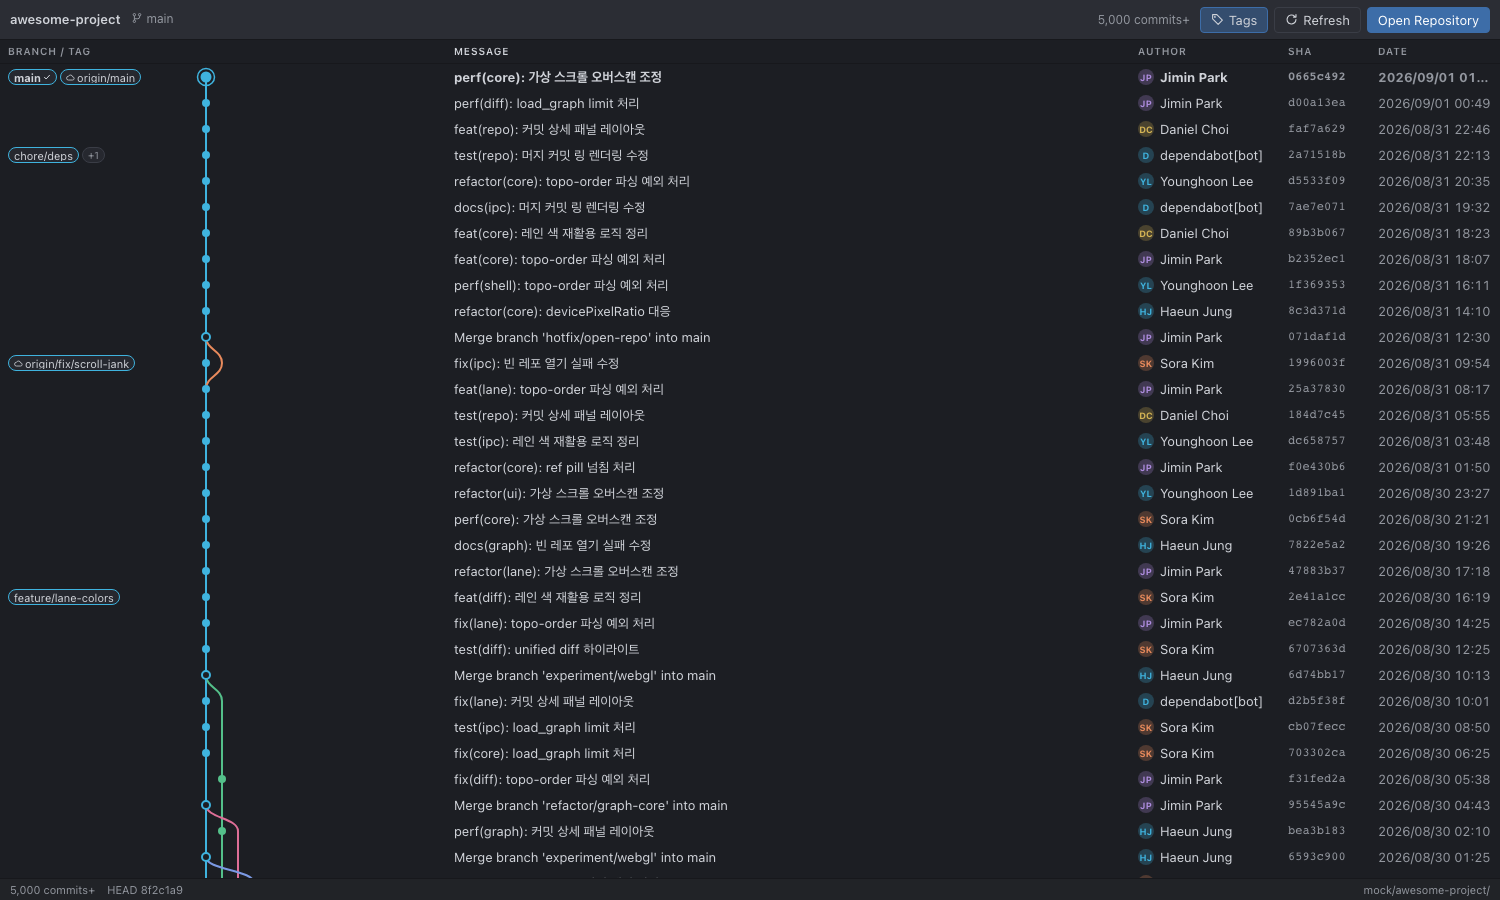
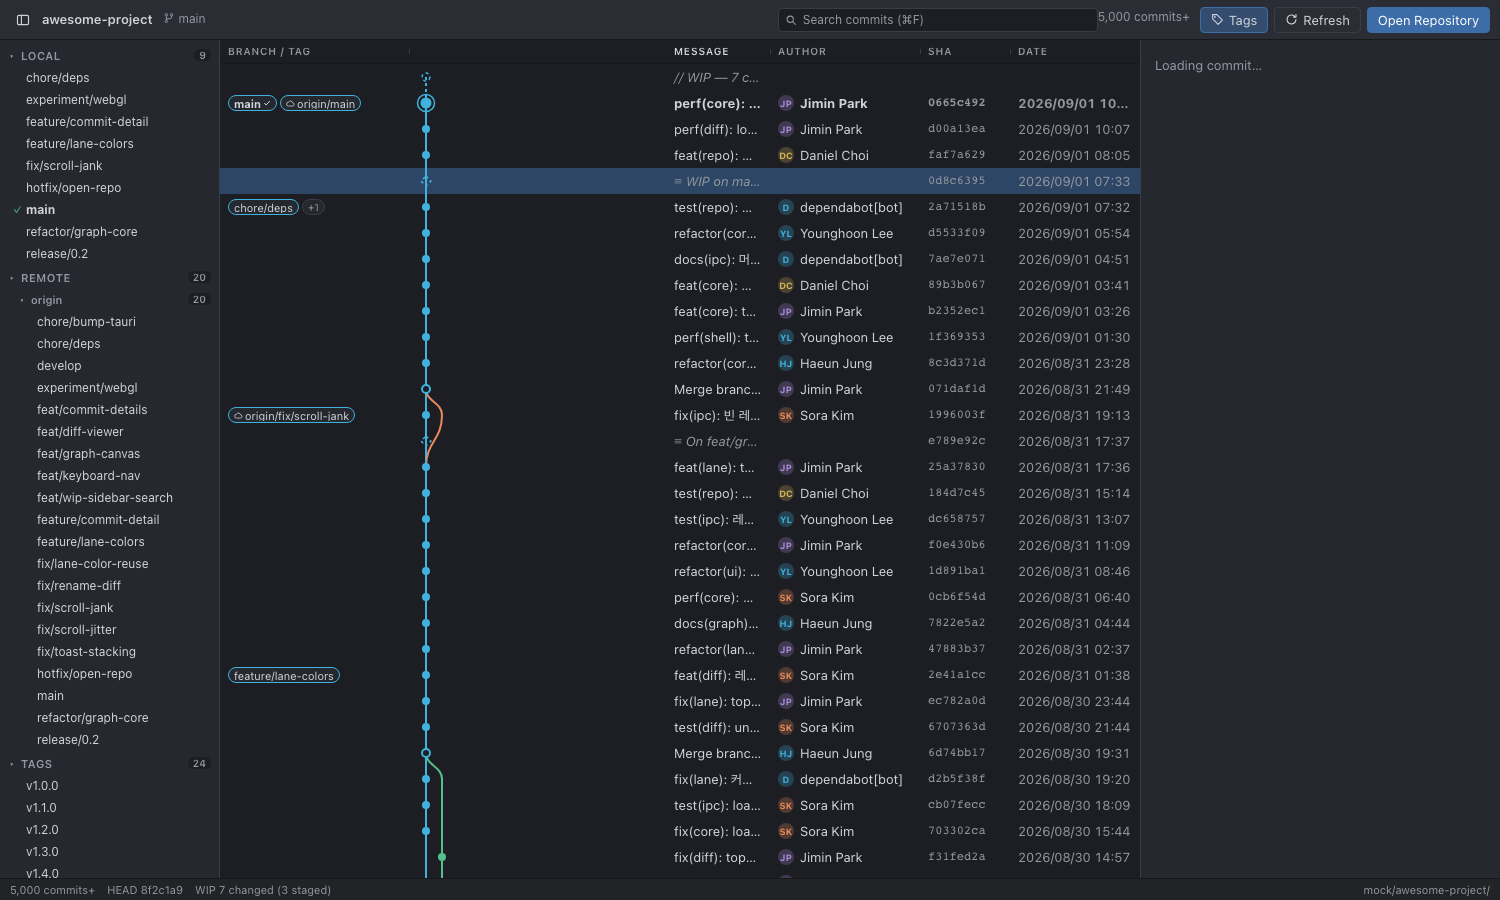
chore: release CI (macOS arm64/x86_64, Windows, Linux), README refresh, v0.3.0
- GitHub Actions workflow builds and uploads all-platform bundles on v* tags
  via tauri-action, running tsc + cargo test first
- README: feature list matching v0.5, install/usage/dev-harness docs
- fresh screenshot with sidebar, WIP row, avatars

diff --git a/README.md b/README.md
@@ -1,29 +1,56 @@
 # GitLanes
 
-GitKraken-style commit graph viewer. Free and open source, read-only, works with any local repository (private or public — there is no such distinction for local repos).
+GitKraken-style commit graph viewer. Free and open source (MIT), read-only, works with any local repository — private or public makes no difference.
 
-- Separate BRANCH/TAG column and GRAPH column, curved edges, lane colors (GitKraken-style layout)
-- Read-only: no staging, no push/pull. Use it alongside your favorite git client
-- Tauri 2 + Rust (wraps system `git` CLI) + React. Small bundle, low memory
-- Eye-comfort dark theme by default
+![GitLanes commit graph](docs/screenshot.png)
 
-Status: v0.1 in development.
+## Features
+
+- **GitKraken-style layout**: separate BRANCH/TAG column, curved lane graph with color recycling (adjacent lanes never share a color), author initial avatars
+- **WIP & stash rows**: uncommitted changes and every stash appear inline in the graph; stash rows open in the detail panel like any commit
+- **Branch sidebar**: collapsible LOCAL / REMOTE / TAGS tree, click to jump to a ref's commit
+- **Search**: Cmd+F over message / author / sha across the *entire* history — matches beyond the loaded range are paged in automatically
+- **Commit details**: file list with status badges and ±stats, rename-aware unified diff (virtualized for huge diffs)
+- **Live**: auto-refreshes when the repository changes (refs fingerprint polling, focused window only)
+- **Fast**: Rust backend wrapping the system `git` CLI, parallel subprocess calls, canvas rendering with virtual scrolling — a 32k-commit repository loads in ~300ms and scrolls at 60fps
+- **Read-only by design**: no staging, no push, no way to break anything; use it alongside your favorite git client
+- Draggable column widths, keyboard navigation (↑/↓), sha copy (button or row double-click), eye-comfort dark theme
+
+## Install
+
+Grab the latest build from [Releases](https://github.com/nobel6018/gitlanes/releases) (macOS arm64/x86_64, Windows, Linux).
+
+macOS builds are unsigned for now: right-click → Open on first launch.
+
+## Usage
+
+```bash
+# open a repo from the command line
+gitlanes /path/to/repo
+
+# or via environment variable
+GITLANES_REPO=/path/to/repo gitlanes
+```
+
+Or just launch the app and use Open Repository / recent list.
 
 ## Development
 
 ```bash
 npm install
-npm run tauri dev
+npm run tauri dev                 # run the app
+cargo test --manifest-path src-tauri/Cargo.toml   # backend tests
+
+# headless backend check on any repo (timing, lanes, WIP, stashes)
+src-tauri/target/release/gitlanes --dump /path/to/repo
+
+# browser harnesses (no Tauri needed) — with `npm run dev` running:
+#   http://localhost:1420/dev-mock.html   GraphView only, mock data
+#   http://localhost:1420/dev-app.html    full app with mocked IPC
 ```
 
-Requires Rust toolchain and git >= 2.30.
+Requires Rust toolchain, Node 22+, and git >= 2.30. Interface contracts between packages live in [CONTRACTS.md](CONTRACTS.md).
 
 ## License
 
 MIT
-
-## Screenshot
-
-![GitLanes commit graph](docs/screenshot.png)
-
-*Separate BRANCH/TAG column, curved lane graph, author avatars, commit detail panel with unified diff.*
